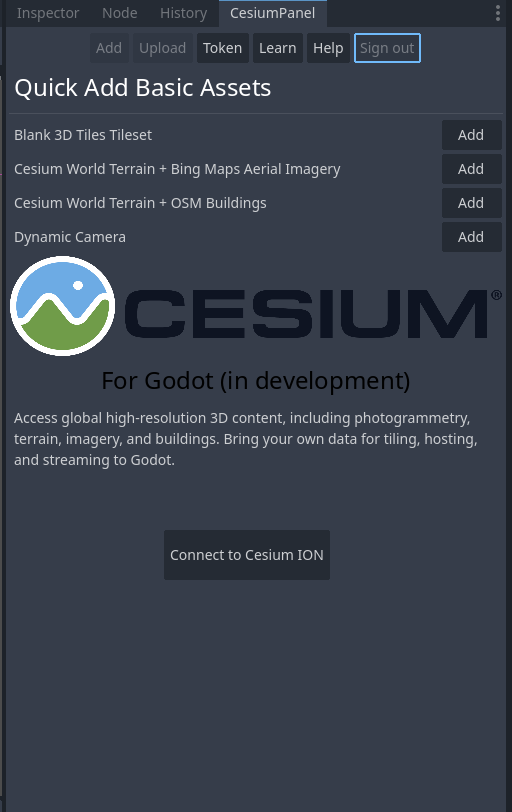
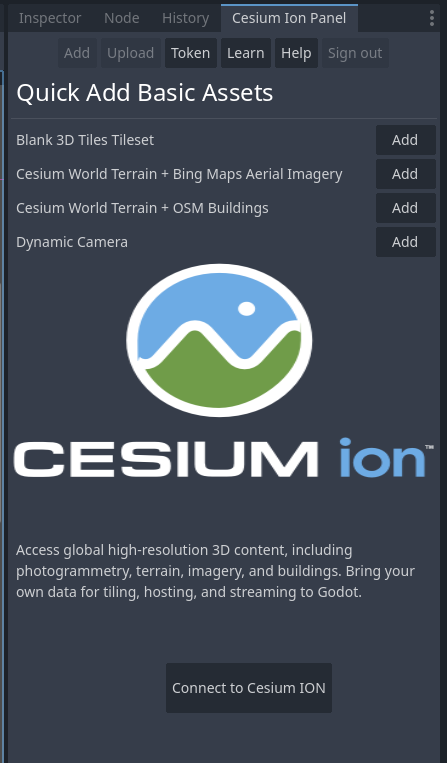
Update README file

diff --git a/cesium_godot/Implementations/NetworkAssetAccessor.cpp b/cesium_godot/Implementations/NetworkAssetAccessor.cpp
@@ -106,6 +106,9 @@ CesiumAsync::Future<std::shared_ptr<CesiumAsync::IAssetRequest>> NetworkAssetAcc
 					const char *strPtr = reinterpret_cast<const char *>(body.ptr());
 					String bodyStr = strPtr;
 					ERR_PRINT(errorMessage + String("\nURL: ") + String(url.c_str()) + String("\nFailed request's body: ") + bodyStr);
+					if (responseCode == HTTPClient::ResponseCode::RESPONSE_UNAUTHORIZED) {
+						ERR_PRINT("Access to data denied, make sure you're logged into CesiumION and your token has access to the desired asset!");
+					}
 					std::exception exc(errorMessage.utf8().get_data());
 					p_promise.reject(&exc);
 					return;

diff --git a/README.md b/README.md
@@ -7,12 +7,14 @@ A Godot 4 extension that integrates Cesium 3D Tiles capabilities into Godot Engi
 
 ## Prerequisites
 
-- **Windows 10/11** (64-bit)
+- **C++ 20**
+- **CMake 3.1+**
 - **Python 3.8+** (with pip)
 - **SCons** (`pip install scons`)
 - **Visual Studio 2022** with C++ desktop development workload (If you plan on contributing or developing)
 - **Git**
 - **Godot 4.1+** (with GDExtension support)
+- **Windows 10/11** (64-bit)
 
 ## Installation (as GDExtension)
 
@@ -83,11 +85,11 @@ Alternatively, you can choose to create a new project using the `godot3dtiles/` 
 
 ## Getting Started
 
-### Using the Cesium Panel
+### Using the Cesium Ion Panel
 
 ![PanelDemo1](readme_resources/panel_default.png)
 
-The Cesium Panel provides essential tools for managing geospatial content and configuring plugin integration with Cesium services.
+The Cesium Ion Panel provides essential tools for managing geospatial content and configuring plugin integration with Cesium services.
 
 **Connect to Cesium ION**
 
@@ -100,16 +102,31 @@ The Cesium Panel provides essential tools for managing geospatial content and co
 
 * Maintains session security through OAuth2 authorization flow.
 
-**Access Token Management**
+### Setting up your first scene
 
-Upon successful authentication:
+**Create a new 3D scene**
+![CreateScene](readme_resources/create_scene.png)
 
-* Access tokens are stored by default in `addons/cesium_godot/cesium_gd_config.tres`
-* The `cesium_gd_config.tres` resource file controls the following parameters
-  * `accessToken`: Empty by default and will be filled in after connecting with ION
-  * `serverUrl`: Points to `https://ion.cesium.com` by default, could be changed for self-hosting purposes
-  * `apiUrl`: Points to `https://api.cesium.com/` by default, could be changed for self-hosting purposes
-  * `applicationId`: The Cesium ION identifier for this application, by default, 3D Tiles For Godot uses id `891`
+**Add a new tileset**
+You can choose between the different pre-defined tilesets provided to you on the Cesium Ion Panel, or create a new blank tileset to customize it with your desired asset id and data source URL.
+
+You should now see multiple nodes were added to your scene, depending on the option you picked.
+
+*Example with pre-defined tileset Cesium World Terrain + Bing Maps Aerial Imagery*
+![AddTileset](readme_resources/add_tileset.png)
+
+**Add a dynamic camera**
+
+Back to the Cesium Panel, you should now be able to click on the dynamic camera button and see it get added to your scene.
+
+[!DynamicCamera](readme_resources/dynamic_camera.png)
+
+You should also see the tilesets and CesiumGeoreference have been added automatically to the camera's properties in the inspector.
+
+[!CameraProperties](readme_resources/camera_properties.png)
+
+**Hit the Play button**
+Tiles should start loading in now!
 
 #### Note: This plugin is currently Windows-only. Linux/MacOS support is planned for future releases.
 
